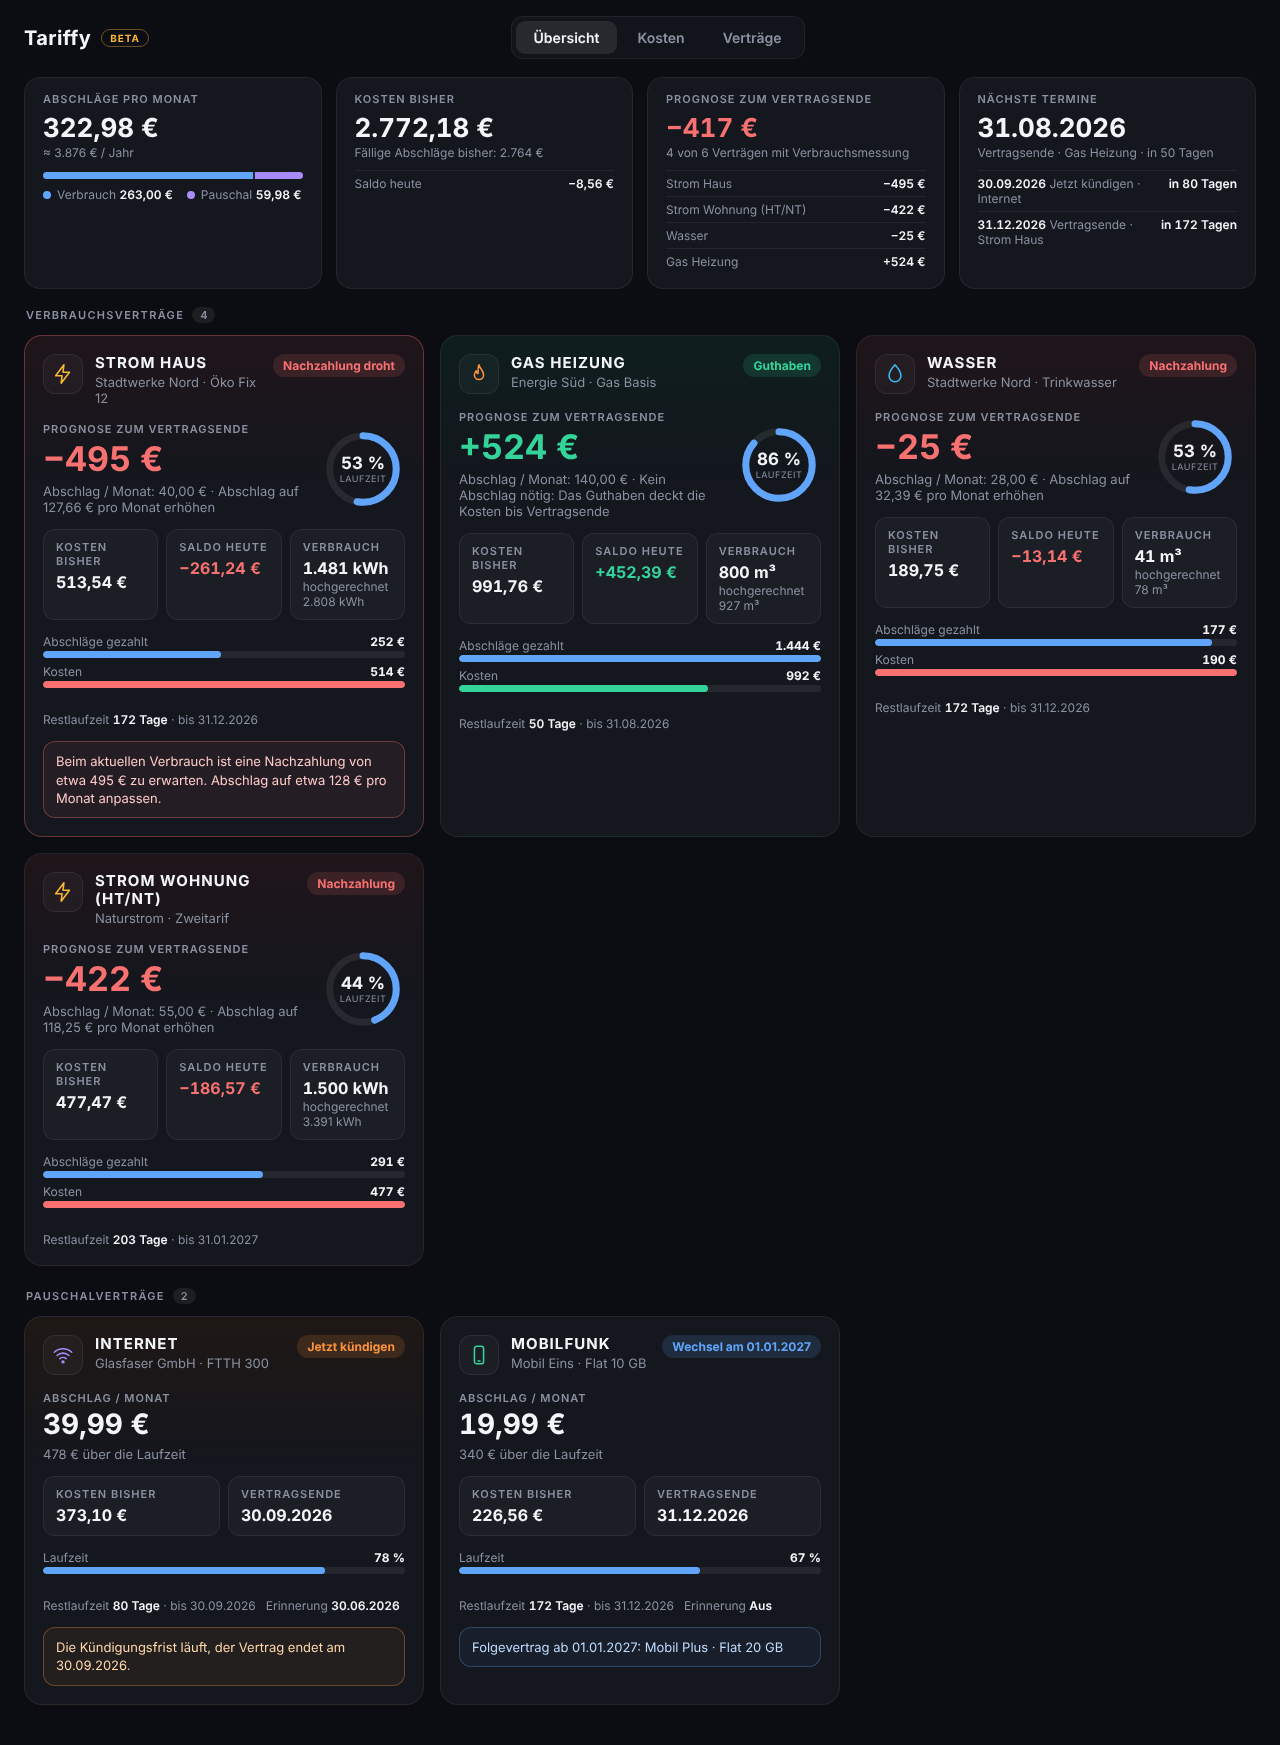
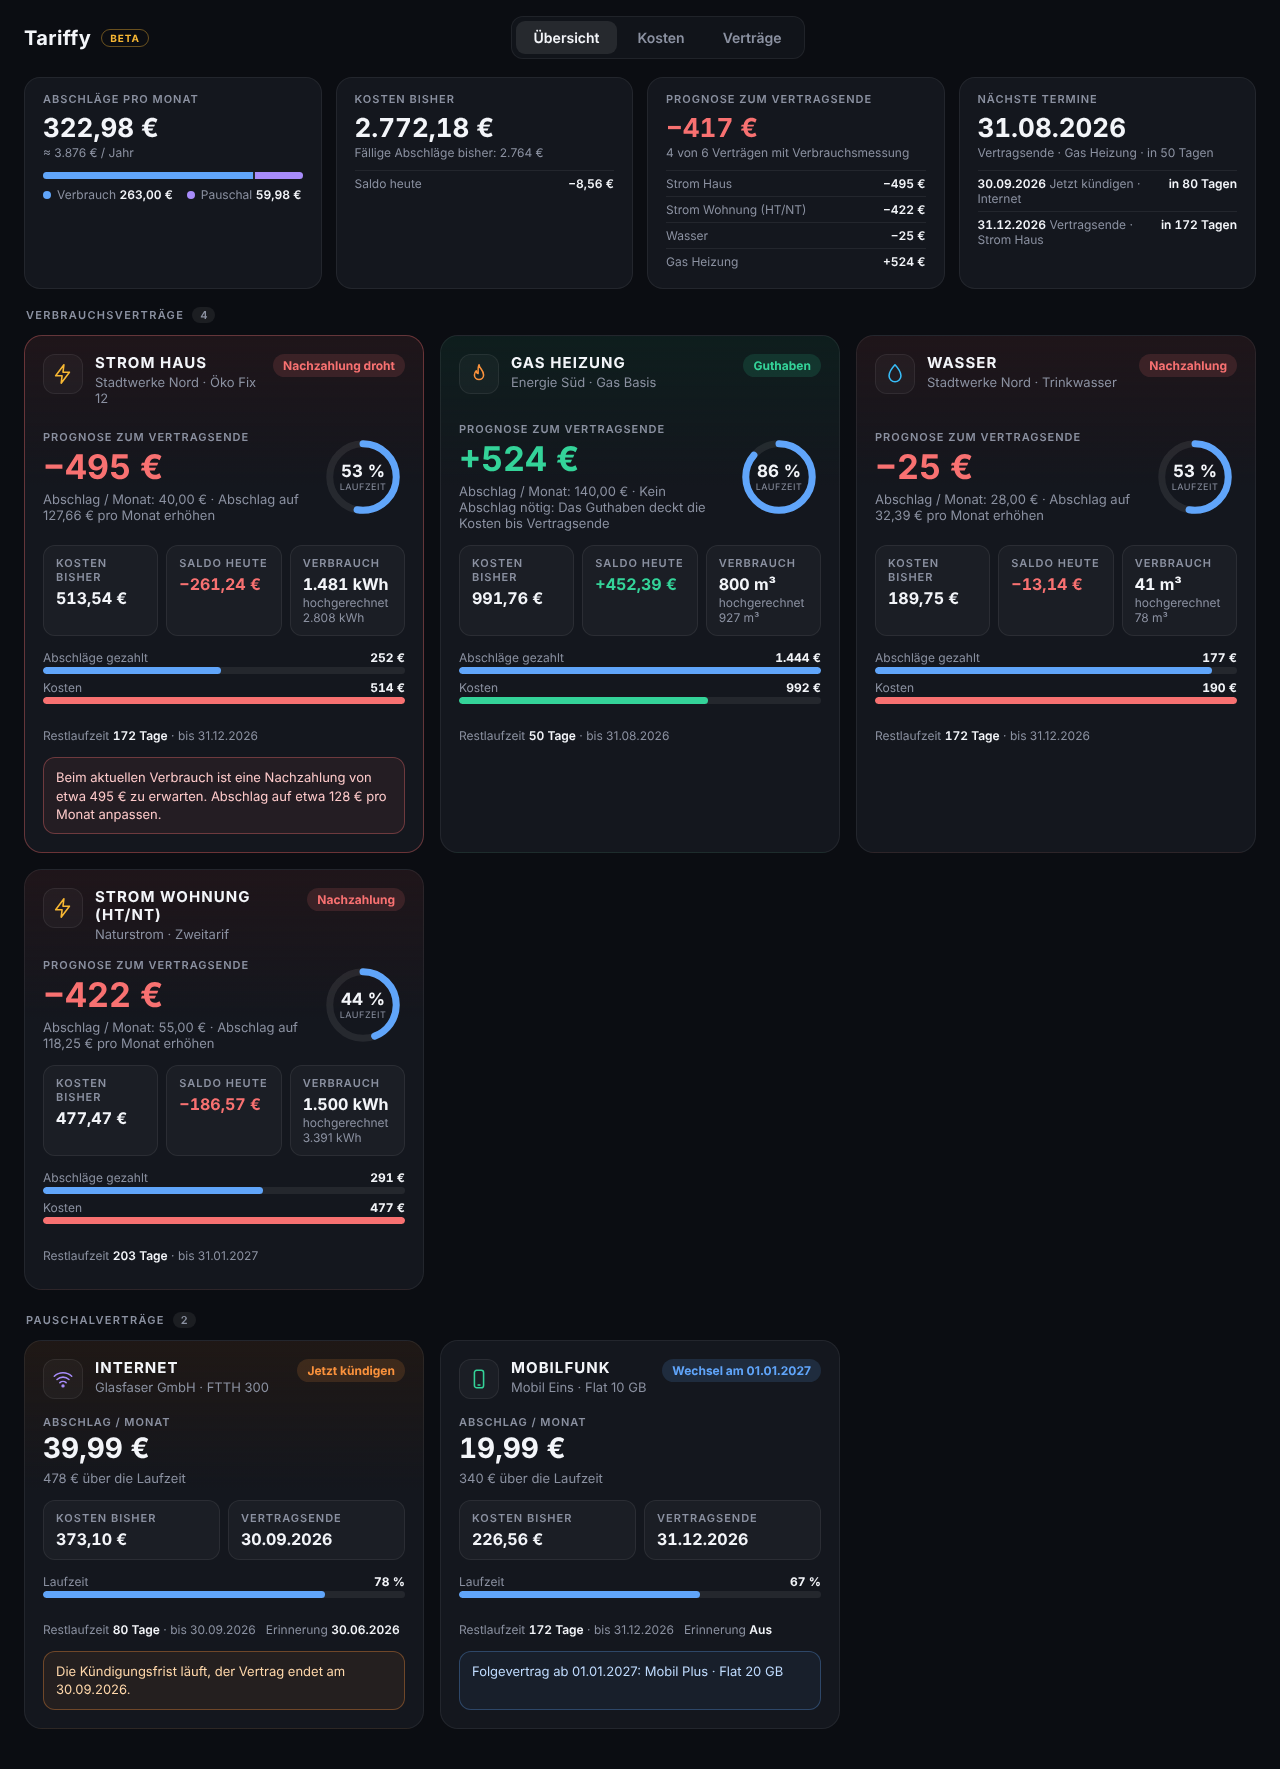
Panel: align the content of the cards in one row (1.27.0-rc.8) (#40)
Claude-Session: https://claude.ai/code/session_011wNPKqgRVqpMfNb2Np7XaH

diff --git a/custom_components/tariffy/frontend/tariffy-panel.js b/custom_components/tariffy/frontend/tariffy-panel.js
@@ -271,6 +271,10 @@ const STYLE = `
 @container (min-width: 1750px) { .grid.metered, .grid.flat { grid-template-columns: repeat(4, 1fr); } }
 section.card { display: flex; flex-direction: column; }
 section.card .foot { padding-top: 12px; }
+/* cards of one row share their rows: the header, the big figure, the tiles, the bars and the footer line up across the cards */
+@supports (grid-template-rows: subgrid) {
+  .grid > section.card { display: grid; grid-row: span 6; grid-template-rows: subgrid; row-gap: 0; align-content: start; }
+}
 .card.flat .big { font-size: 28px; }
 .card { position: relative; background: var(--panel); border: 1px solid var(--line); border-radius: 18px; padding: 18px; }
 .card.tone-green { background: linear-gradient(180deg, rgba(52,211,153,.085), var(--panel) 150px); }
@@ -1030,7 +1034,8 @@ class TariffyPanel extends HTMLElement {
         h("div", { class: `badge ${c.sparte}` }, icon(c.sparte)),
         this._who(c),
         this._chips(d.chips)),
-      body
+      // always six blocks: cards in one row share their rows (subgrid), so the figures line up across the cards
+      body.map((part) => part || h("div", { class: "slot" }))
     );
   }
 

diff --git a/custom_components/tariffy/CHANGELOG.md b/custom_components/tariffy/CHANGELOG.md
@@ -7,6 +7,14 @@ das Projekt folgt [Semantic Versioning](https://semver.org/lang/de/).
 
 ## [Unreleased]
 
+## [1.27.0-rc.8] - 2026-11-07
+
+Achter Release Candidate zum Testen des Seitenleisten-Panels. Bitte melde Probleme mit dem Bug-Formular und nenne diese genaue Version.
+
+### Changed
+
+- Die Karten einer Zeile in der Übersicht stehen ausgerichtet: Kopf, große Kennzahl, die drei Kacheln, die Balken und die Fußzeile beginnen in jeder Karte einer Zeile auf derselben Höhe, auch wenn eine Karte einen längeren Text hat (zum Beispiel den längeren Abschlag-Hinweis) oder einen Hinweiskasten. Vorher waren nur die Karten gleich hoch, der Inhalt nicht.
+
 ## [1.27.0-rc.7] - 2026-11-07
 
 Siebter Release Candidate zum Testen des Seitenleisten-Panels. Bitte melde Probleme mit dem Bug-Formular und nenne diese genaue Version.

diff --git a/CHANGELOG.md b/CHANGELOG.md
@@ -7,6 +7,14 @@ and this project adheres to [Semantic Versioning](https://semver.org/spec/v2.0.0
 
 ## [Unreleased]
 
+## [1.27.0-rc.8] - 2026-11-07
+
+Eighth release candidate for testing the sidebar panel. Please report problems with the bug report form and mention this exact version.
+
+### Changed
+
+- The cards of one row in the overview line up: the header, the big figure, the three tiles, the bars and the footer line start at the same height in every card of the row, even if one card has a longer text (for example a longer instalment advice) or a note. Before, only the cards had the same height, the content did not.
+
 ## [1.27.0-rc.7] - 2026-11-07
 
 Seventh release candidate for testing the sidebar panel. Please report problems with the bug report form and mention this exact version.
